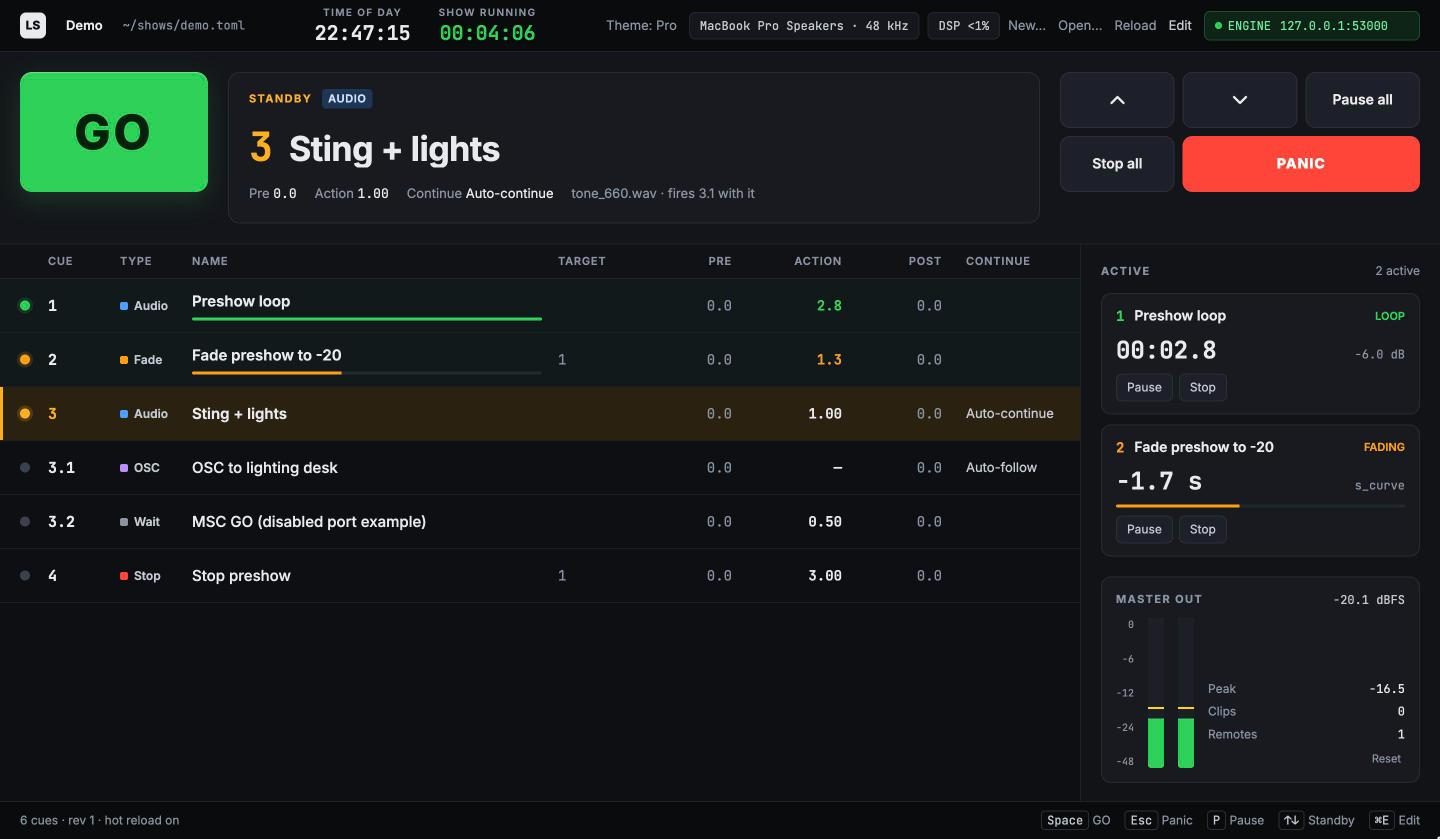
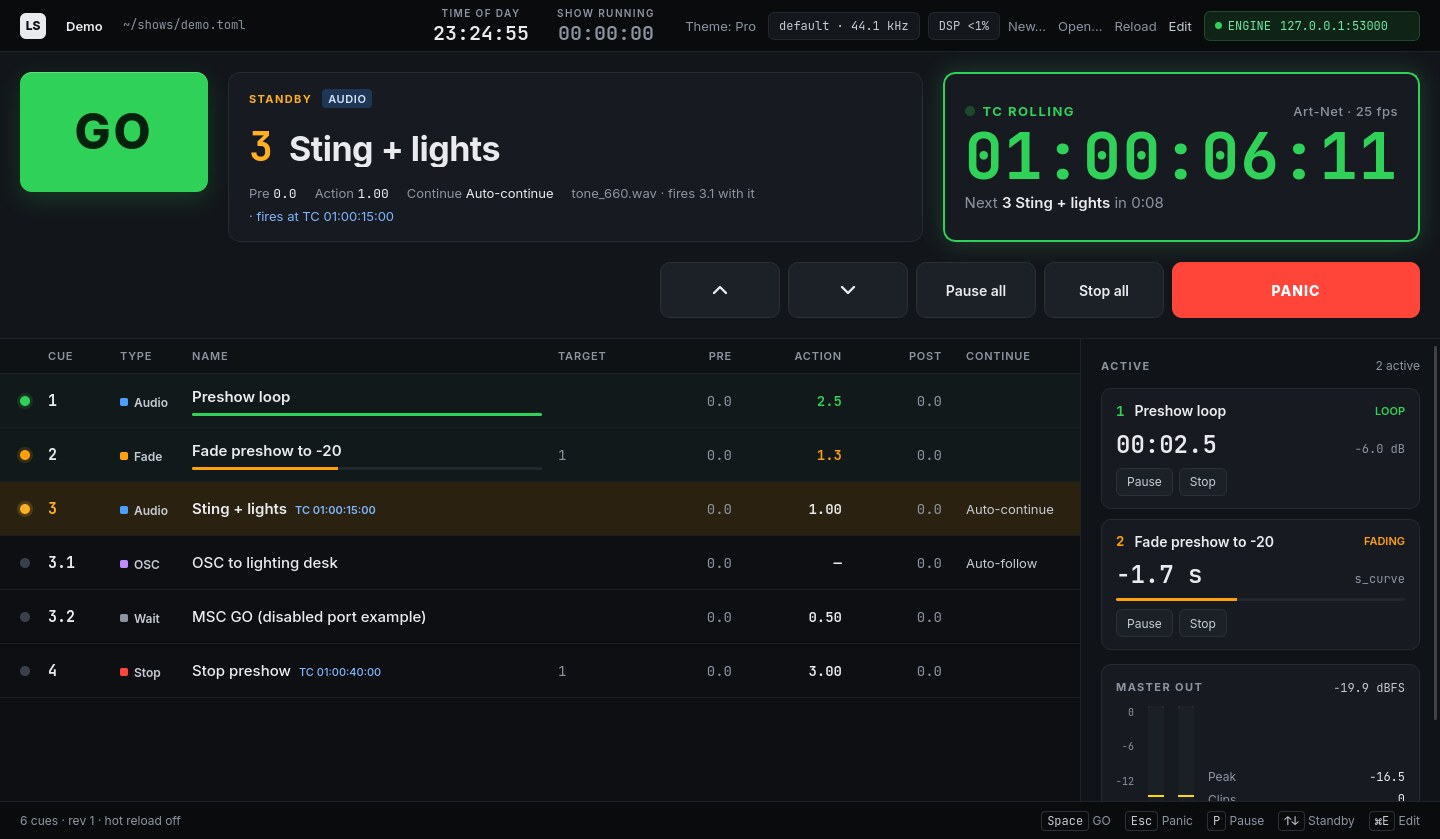
Screenshots with the timecode panel; keep controls aligned under it
Retakes the Standard, Underground and Pro run-mode screenshots with
Art-Net timecode rolling and timecode-triggered cues in the list.

With the timecode panel shown, the transport controls wrap to their own
row: right-align them under the panel, and use a single row in Pro.

diff --git a/ui/dist/style.css b/ui/dist/style.css
@@ -766,6 +766,10 @@ body[data-theme="pro"] .next .detail b { font-weight: 400; color: var(--text); }
 body[data-theme="pro"] .next .detail .mono { font-family: "JetBrains Mono", monospace; }
 body[data-theme="pro"] .controls { display: grid; grid-template-columns: repeat(3, minmax(0, 1fr)); grid-template-rows: repeat(2, 56px); gap: 8px; width: 360px; }
 body[data-theme="pro"] .controls .divider { display: none; }
+/* With the timecode panel the controls wrap to their own row: keep them
+   right-aligned under it, and in one row in Pro. */
+.transport:has(#tcbig:not([hidden])) .controls { margin-left: auto; }
+body[data-theme="pro"] .transport:has(#tcbig:not([hidden])) .controls { grid-template-columns: repeat(6, 120px); grid-template-rows: 56px; width: auto; }
 body[data-theme="pro"] .sq,
 body[data-theme="pro"] .ctl { width: auto; height: 56px; border-radius: 10px; background: var(--btn); border: 1px solid var(--btn-line); padding: 0 10px; }
 body[data-theme="pro"] .ctl.resume { background: var(--paused); color: #1a0d2e; border-color: var(--paused); }

diff --git a/README.md b/README.md
@@ -3,7 +3,7 @@
 Cue-based show playback engine for macOS + Linux, modelled on [Linux Show Player](https://www.linux-show-player.org/).
 Headless engine first — every UI (Tauri, egui, TouchOSC, Q-SYS, Stream Deck) is just an OSC client.
 
-![Operator UI — Standard theme, run mode: preshow loop running, fade in progress, cue 3 on standby](docs/screenshots/standard-run.jpg)
+![Operator UI — Standard theme, run mode: preshow loop running, fade in progress, cue 3 on standby, Art-Net timecode rolling with a countdown to cue 3's timecode trigger](docs/screenshots/standard-run.jpg)
 
 - **Real-time audio engine** in Rust: lock-free mixer, preloaded clips, GO latency of one audio buffer
 - **Cue types**: audio, fade, stop, OSC, MIDI/MSC, wait — with pre/post-waits, auto-continue and auto-follow
@@ -16,7 +16,7 @@ Headless engine first — every UI (Tauri, egui, TouchOSC, Q-SYS, Stream Deck) i
 
 | Underground | Pro |
 |---|---|
-| ![Underground theme: terminal look with ASCII progress bars, cue states and a live OSC traffic log](docs/screenshots/underground-run.jpg) | ![Pro theme: broadcast console with clocks, standby card, active cues and a master output meter](docs/screenshots/pro-run.jpg) |
+| ![Underground theme: terminal look with ASCII progress bars, cue states, the timecode panel and a live OSC traffic log](docs/screenshots/underground-run.jpg) | ![Pro theme: broadcast console with clocks, standby card, timecode panel, active cues and a master output meter](docs/screenshots/pro-run.jpg) |
 | Terminal look: cue STATE column, ASCII progress bars, live **OSC_TRAFFIC** log of what the UI sends and receives | Broadcast console: time-of-day and show-running clocks, device / DSP chips, Active panel, **MASTER OUT** meter with real engine levels |
 
 ## Layout
